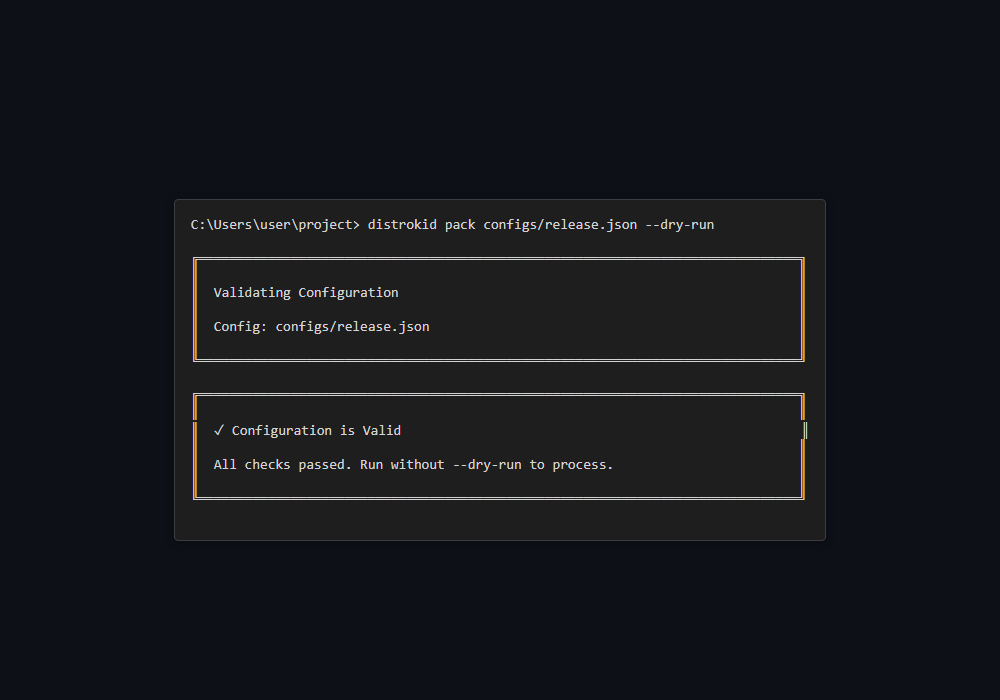
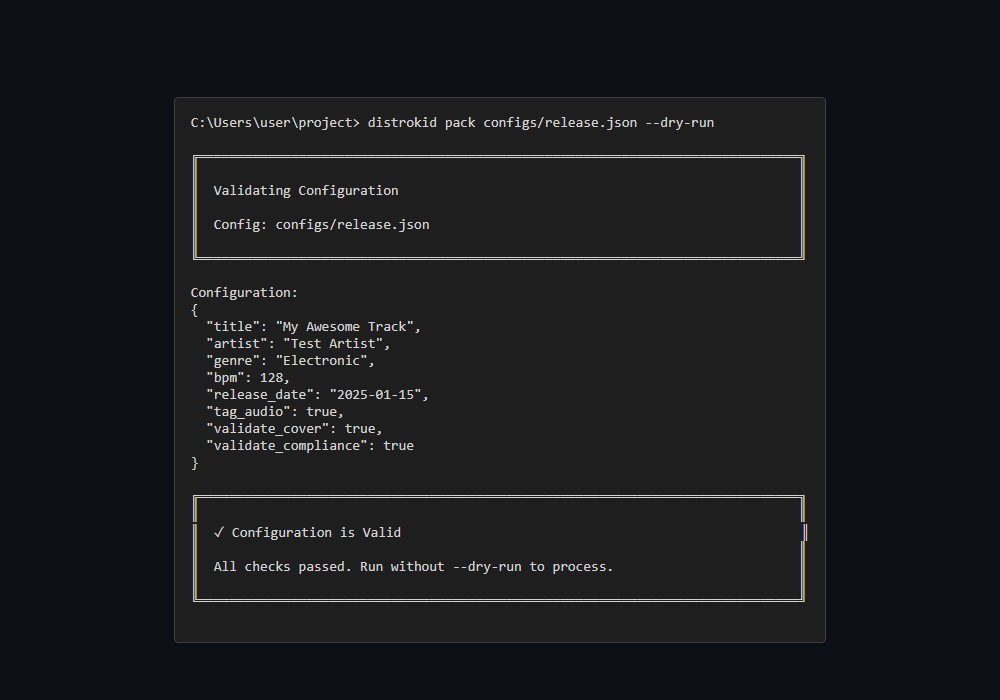
Change configuration display from JSON to Rich table format
- Replace JSON output with Rich table for better readability
- Show configuration as formatted table with Setting/Value columns
- Use Rich styling with colors and checkmarks for enabled features
- More visually appealing and easier to read

diff --git a/assets/screenshots/pack-dry-run.html b/assets/screenshots/pack-dry-run.html
@@ -47,25 +47,27 @@ span {
 <span class="r3">║</span>                                                                              <span class="r3">║</span>
 <span class="r3">╚══════════════════════════════════════════════════════════════════════════════╝</span>
 
-<span class="r6">Configuration:</span>
-<span class="r6">{</span>
-  <span class="r7">&quot;title&quot;</span>: <span class="r8">&quot;My Awesome Track&quot;</span>,
-  <span class="r7">&quot;artist&quot;</span>: <span class="r8">&quot;Test Artist&quot;</span>,
-  <span class="r7">&quot;genre&quot;</span>: <span class="r8">&quot;Electronic&quot;</span>,
-  <span class="r7">&quot;bpm&quot;</span>: <span class="r4">128</span>,
-  <span class="r7">&quot;release_date&quot;</span>: <span class="r8">&quot;2025-01-15&quot;</span>,
-  <span class="r7">&quot;tag_audio&quot;</span>: <span class="r9">true</span>,
-  <span class="r7">&quot;validate_cover&quot;</span>: <span class="r9">true</span>,
-  <span class="r7">&quot;validate_compliance&quot;</span>: <span class="r9">true</span>
-<span class="r6">}</span>
+<span class="r6">              </span><span class="r7">Configuration</span><span class="r6">               </span>
+<span class="r3">┌─────────────────────┬──────────────────┐</span>
+<span class="r3">│</span><span class="r4"> Setting             </span><span class="r3">│</span><span class="r4"> Value            </span><span class="r3">│</span>
+<span class="r3">├─────────────────────┼──────────────────┤</span>
+<span class="r3">│</span><span class="r2"> Title               </span><span class="r3">│ </span><span class="r4">My Awesome Track</span><span class="r3"> │</span>
+<span class="r3">│</span><span class="r2"> Artist              </span><span class="r3">│ </span><span class="r4">Test Artist</span><span class="r3">      │</span>
+<span class="r3">│</span><span class="r2"> Genre               </span><span class="r3">│ Electronic       │</span>
+<span class="r3">│</span><span class="r2"> BPM                 </span><span class="r3">│ 128              │</span>
+<span class="r3">│</span><span class="r2"> Release Date        </span><span class="r3">│ 2025-01-15       │</span>
+<span class="r3">│</span><span class="r2"> Tag Audio           </span><span class="r3">│ </span><span class="r8">✓</span><span class="r3"> Enabled        │</span>
+<span class="r3">│</span><span class="r2"> Validate Cover      </span><span class="r3">│ </span><span class="r8">✓</span><span class="r3"> Enabled        │</span>
+<span class="r3">│</span><span class="r2"> Validate Compliance </span><span class="r3">│ </span><span class="r8">✓</span><span class="r3"> Enabled        │</span>
+<span class="r3">└─────────────────────┴──────────────────┘</span>
 
-<span class="r8">╔══════════════════════════════════════════════════════════════════════════════╗</span>
-<span class="r8">║</span>                                                                              <span class="r8">║</span>
-<span class="r8">║</span>  <span class="r10">✓ Configuration is Valid</span>                                                    <span class="r8">║</span>
-<span class="r8">║</span>                                                                              <span class="r8">║</span>
-<span class="r8">║</span>  <span class="r1">All checks passed. Run without --dry-run to process.</span>                        <span class="r8">║</span>
-<span class="r8">║</span>                                                                              <span class="r8">║</span>
-<span class="r8">╚══════════════════════════════════════════════════════════════════════════════╝</span>
+<span class="r9">╔══════════════════════════════════════════════════════════════════════════════╗</span>
+<span class="r9">║</span>                                                                              <span class="r9">║</span>
+<span class="r9">║</span>  <span class="r8">✓ Configuration is Valid</span>                                                    <span class="r9">║</span>
+<span class="r9">║</span>                                                                              <span class="r9">║</span>
+<span class="r9">║</span>  <span class="r1">All checks passed. Run without --dry-run to process.</span>                        <span class="r9">║</span>
+<span class="r9">║</span>                                                                              <span class="r9">║</span>
+<span class="r9">╚══════════════════════════════════════════════════════════════════════════════╝</span>
 
 </pre>
 </body>

diff --git a/assets/screenshots/pack-workflow-start.html b/assets/screenshots/pack-workflow-start.html
@@ -47,18 +47,20 @@ span {
 <span class="r3">║</span>                                                                              <span class="r3">║</span>
 <span class="r3">╚══════════════════════════════════════════════════════════════════════════════╝</span>
 
-<span class="r6">Configuration:</span>
-<span class="r6">{</span>
-  <span class="r7">&quot;title&quot;</span>: <span class="r8">&quot;My Awesome Track&quot;</span>,
-  <span class="r7">&quot;artist&quot;</span>: <span class="r8">&quot;Test Artist&quot;</span>,
-  <span class="r7">&quot;genre&quot;</span>: <span class="r8">&quot;Electronic&quot;</span>,
-  <span class="r7">&quot;bpm&quot;</span>: <span class="r4">128</span>,
-  <span class="r7">&quot;release_date&quot;</span>: <span class="r8">&quot;2025-01-15&quot;</span>,
-  <span class="r7">&quot;tag_audio&quot;</span>: <span class="r9">true</span>,
-  <span class="r7">&quot;validate_cover&quot;</span>: <span class="r9">true</span>,
-  <span class="r7">&quot;validate_compliance&quot;</span>: <span class="r9">true</span>,
-  <span class="r7">&quot;suno_url&quot;</span>: <span class="r8">&quot;https://suno.com/song/abc123&quot;</span>
-<span class="r6">}</span>
+<span class="r6">                    </span><span class="r7">Configuration</span><span class="r6">                     </span>
+<span class="r3">┌─────────────────────┬──────────────────────────────┐</span>
+<span class="r3">│</span><span class="r4"> Setting             </span><span class="r3">│</span><span class="r4"> Value                        </span><span class="r3">│</span>
+<span class="r3">├─────────────────────┼──────────────────────────────┤</span>
+<span class="r3">│</span><span class="r2"> Title               </span><span class="r3">│ </span><span class="r4">My Awesome Track</span><span class="r3">             │</span>
+<span class="r3">│</span><span class="r2"> Artist              </span><span class="r3">│ </span><span class="r4">Test Artist</span><span class="r3">                  │</span>
+<span class="r3">│</span><span class="r2"> Genre               </span><span class="r3">│ Electronic                   │</span>
+<span class="r3">│</span><span class="r2"> BPM                 </span><span class="r3">│ 128                          │</span>
+<span class="r3">│</span><span class="r2"> Release Date        </span><span class="r3">│ 2025-01-15                   │</span>
+<span class="r3">│</span><span class="r2"> Tag Audio           </span><span class="r3">│ </span><span class="r8">✓</span><span class="r3"> Enabled                    │</span>
+<span class="r3">│</span><span class="r2"> Validate Cover      </span><span class="r3">│ </span><span class="r8">✓</span><span class="r3"> Enabled                    │</span>
+<span class="r3">│</span><span class="r2"> Validate Compliance </span><span class="r3">│ </span><span class="r8">✓</span><span class="r3"> Enabled                    │</span>
+<span class="r3">│</span><span class="r2"> Suno URL            </span><span class="r3">│ </span><span class="r9">https://suno.com/song/abc123</span><span class="r3"> │</span>
+<span class="r3">└─────────────────────┴──────────────────────────────┘</span>
 
 </pre>
 </body>

diff --git a/scripts/generate_cli_screenshots.py b/scripts/generate_cli_screenshots.py
@@ -173,21 +173,8 @@ span {
 def pack_workflow_start():
     """Generate pack workflow start output."""
     from rich.panel import Panel
-    from rich.json import JSON
+    from rich.table import Table
     from rich import box
-    
-    # Sample configuration data
-    config_data = {
-        "title": "My Awesome Track",
-        "artist": "Test Artist",
-        "genre": "Electronic",
-        "bpm": 128,
-        "release_date": "2025-01-15",
-        "tag_audio": True,
-        "validate_cover": True,
-        "validate_compliance": True,
-        "suno_url": "https://suno.com/song/abc123"
-    }
     
     loading_panel = Panel(
         "[bold bright_cyan]Processing Release[/bold bright_cyan]\n\n"
@@ -199,9 +186,29 @@ def pack_workflow_start():
     console.print(loading_panel)
     console.print()
     
-    # Display JSON configuration with Rich formatting
-    console.print("[bold]Configuration:[/bold]")
-    console.print(JSON.from_data(config_data))
+    # Display configuration in Rich table format
+    config_table = Table(
+        title="[bold cyan]Configuration[/bold cyan]",
+        box=box.ROUNDED,
+        show_header=True,
+        header_style="bold cyan",
+        border_style="cyan",
+        padding=(0, 1)
+    )
+    config_table.add_column("Setting", style="bold white", no_wrap=True)
+    config_table.add_column("Value", style="cyan")
+    
+    config_table.add_row("Title", "[bold]My Awesome Track[/bold]")
+    config_table.add_row("Artist", "[bold]Test Artist[/bold]")
+    config_table.add_row("Genre", "Electronic")
+    config_table.add_row("BPM", "128")
+    config_table.add_row("Release Date", "2025-01-15")
+    config_table.add_row("Tag Audio", "[bold green]✓[/bold green] Enabled")
+    config_table.add_row("Validate Cover", "[bold green]✓[/bold green] Enabled")
+    config_table.add_row("Validate Compliance", "[bold green]✓[/bold green] Enabled")
+    config_table.add_row("Suno URL", "[dim]https://suno.com/song/abc123[/dim]")
+    
+    console.print(config_table)
     console.print()
 
 def pack_workflow_success():
@@ -252,20 +259,8 @@ def pack_workflow_steps():
 def pack_dry_run():
     """Generate pack dry-run validation output."""
     from rich.panel import Panel
-    from rich.json import JSON
+    from rich.table import Table
     from rich import box
-    
-    # Sample configuration data
-    config_data = {
-        "title": "My Awesome Track",
-        "artist": "Test Artist",
-        "genre": "Electronic",
-        "bpm": 128,
-        "release_date": "2025-01-15",
-        "tag_audio": True,
-        "validate_cover": True,
-        "validate_compliance": True
-    }
     
     validation_panel = Panel(
         "[bold bright_cyan]Validating Configuration[/bold bright_cyan]\n\n"
@@ -277,9 +272,28 @@ def pack_dry_run():
     console.print(validation_panel)
     console.print()
     
-    # Display JSON configuration with Rich formatting
-    console.print("[bold]Configuration:[/bold]")
-    console.print(JSON.from_data(config_data))
+    # Display configuration in Rich table format
+    config_table = Table(
+        title="[bold cyan]Configuration[/bold cyan]",
+        box=box.ROUNDED,
+        show_header=True,
+        header_style="bold cyan",
+        border_style="cyan",
+        padding=(0, 1)
+    )
+    config_table.add_column("Setting", style="bold white", no_wrap=True)
+    config_table.add_column("Value", style="cyan")
+    
+    config_table.add_row("Title", "[bold]My Awesome Track[/bold]")
+    config_table.add_row("Artist", "[bold]Test Artist[/bold]")
+    config_table.add_row("Genre", "Electronic")
+    config_table.add_row("BPM", "128")
+    config_table.add_row("Release Date", "2025-01-15")
+    config_table.add_row("Tag Audio", "[bold green]✓[/bold green] Enabled")
+    config_table.add_row("Validate Cover", "[bold green]✓[/bold green] Enabled")
+    config_table.add_row("Validate Compliance", "[bold green]✓[/bold green] Enabled")
+    
+    console.print(config_table)
     console.print()
     
     success_panel = Panel(
